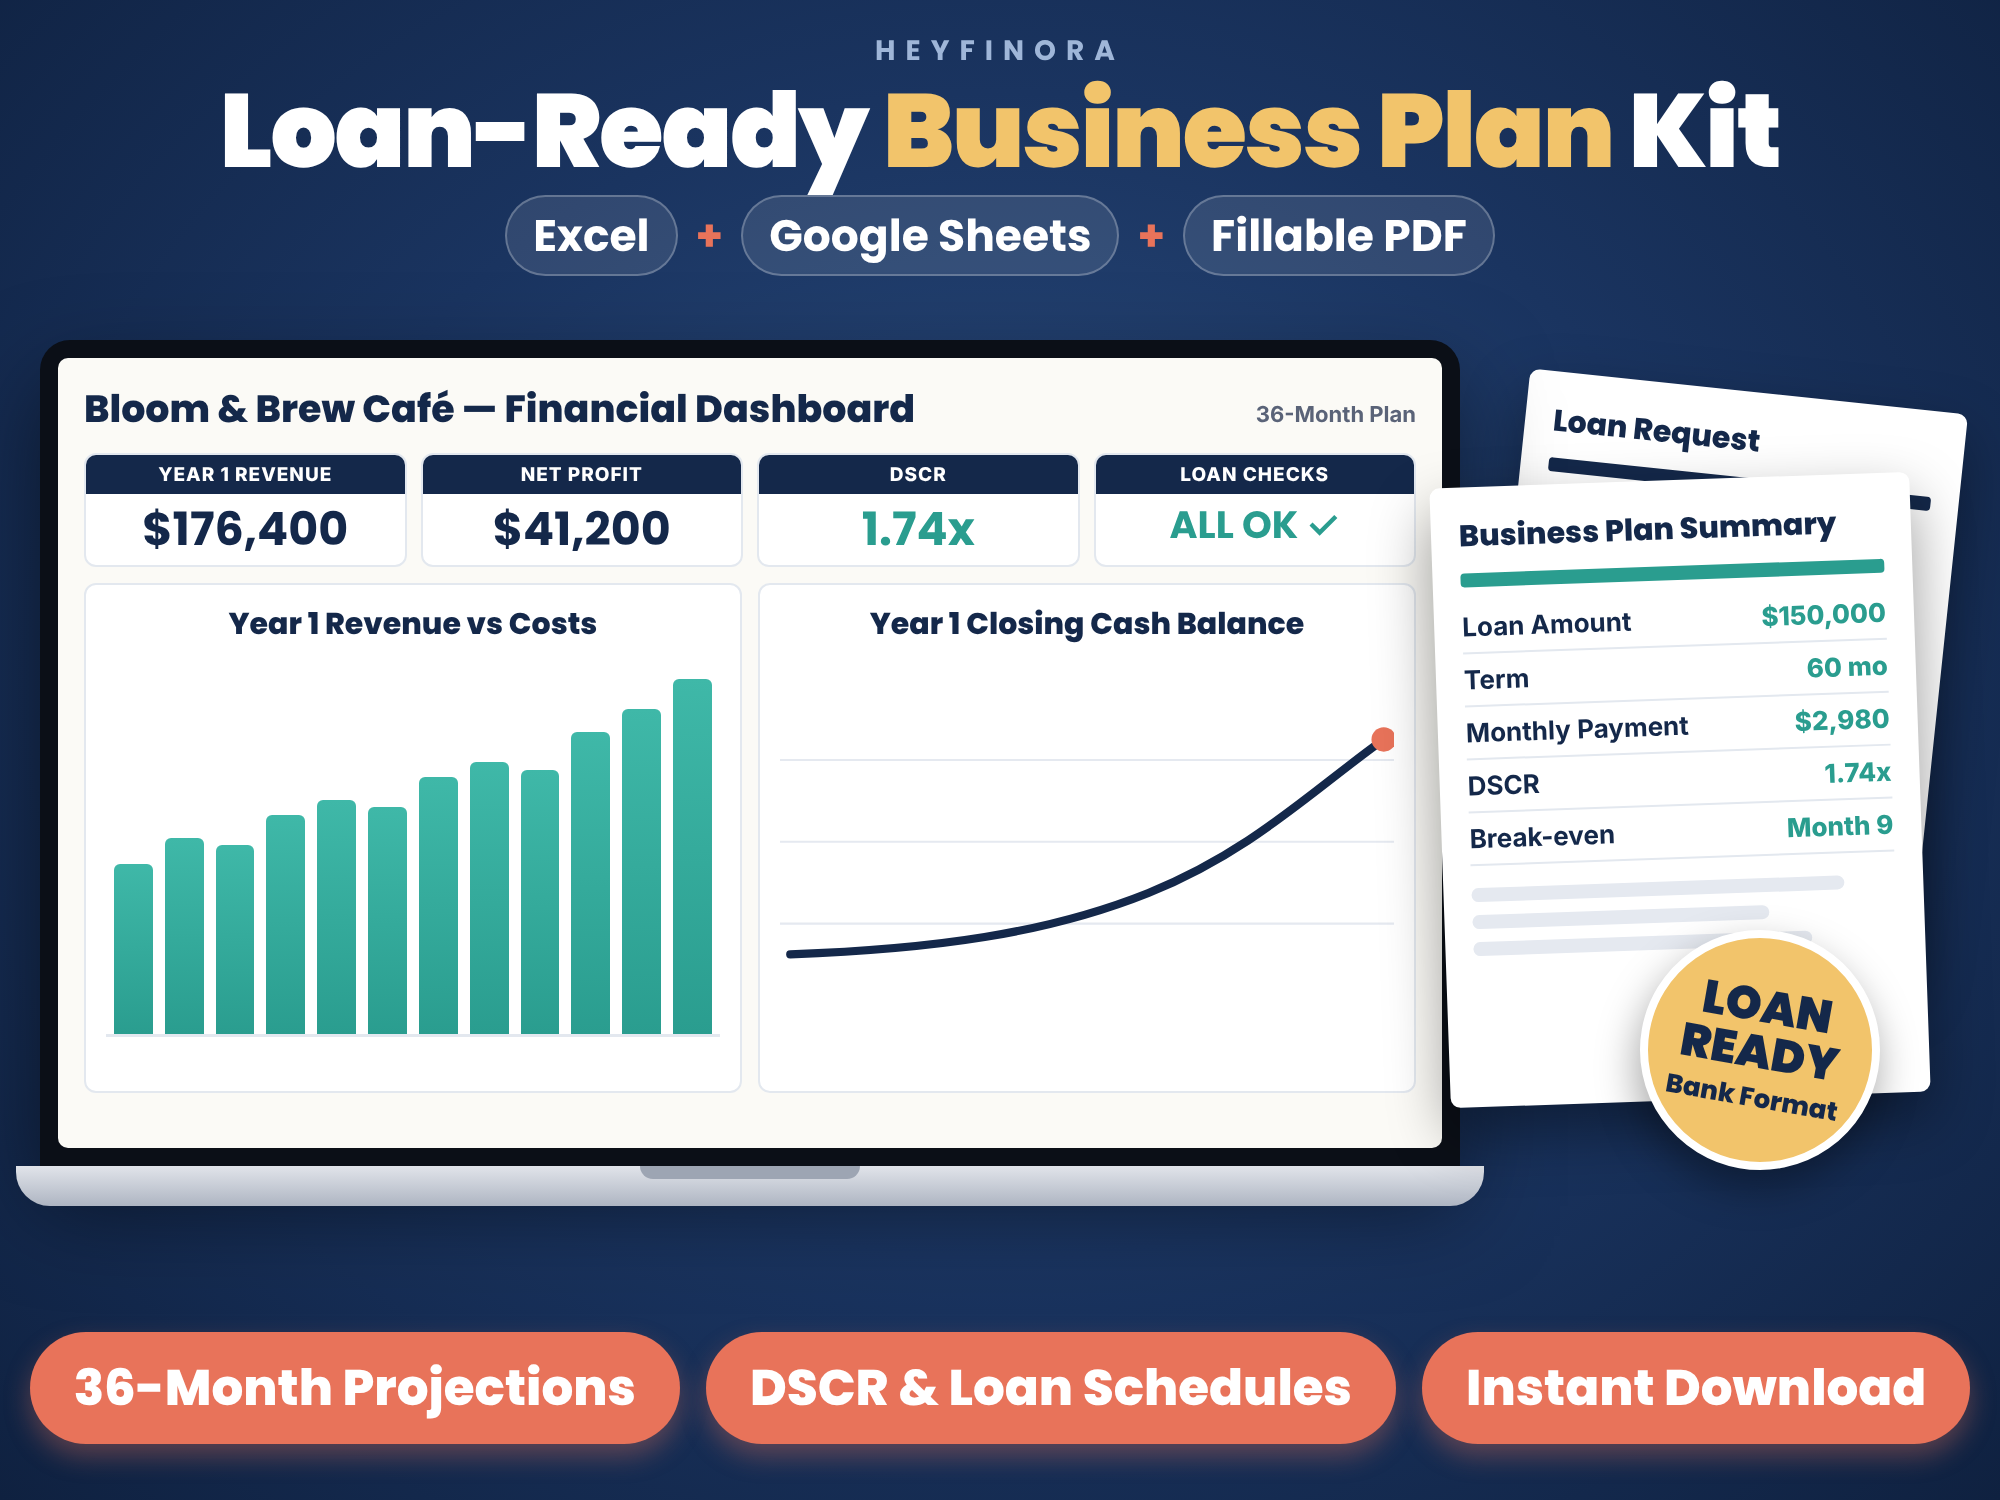
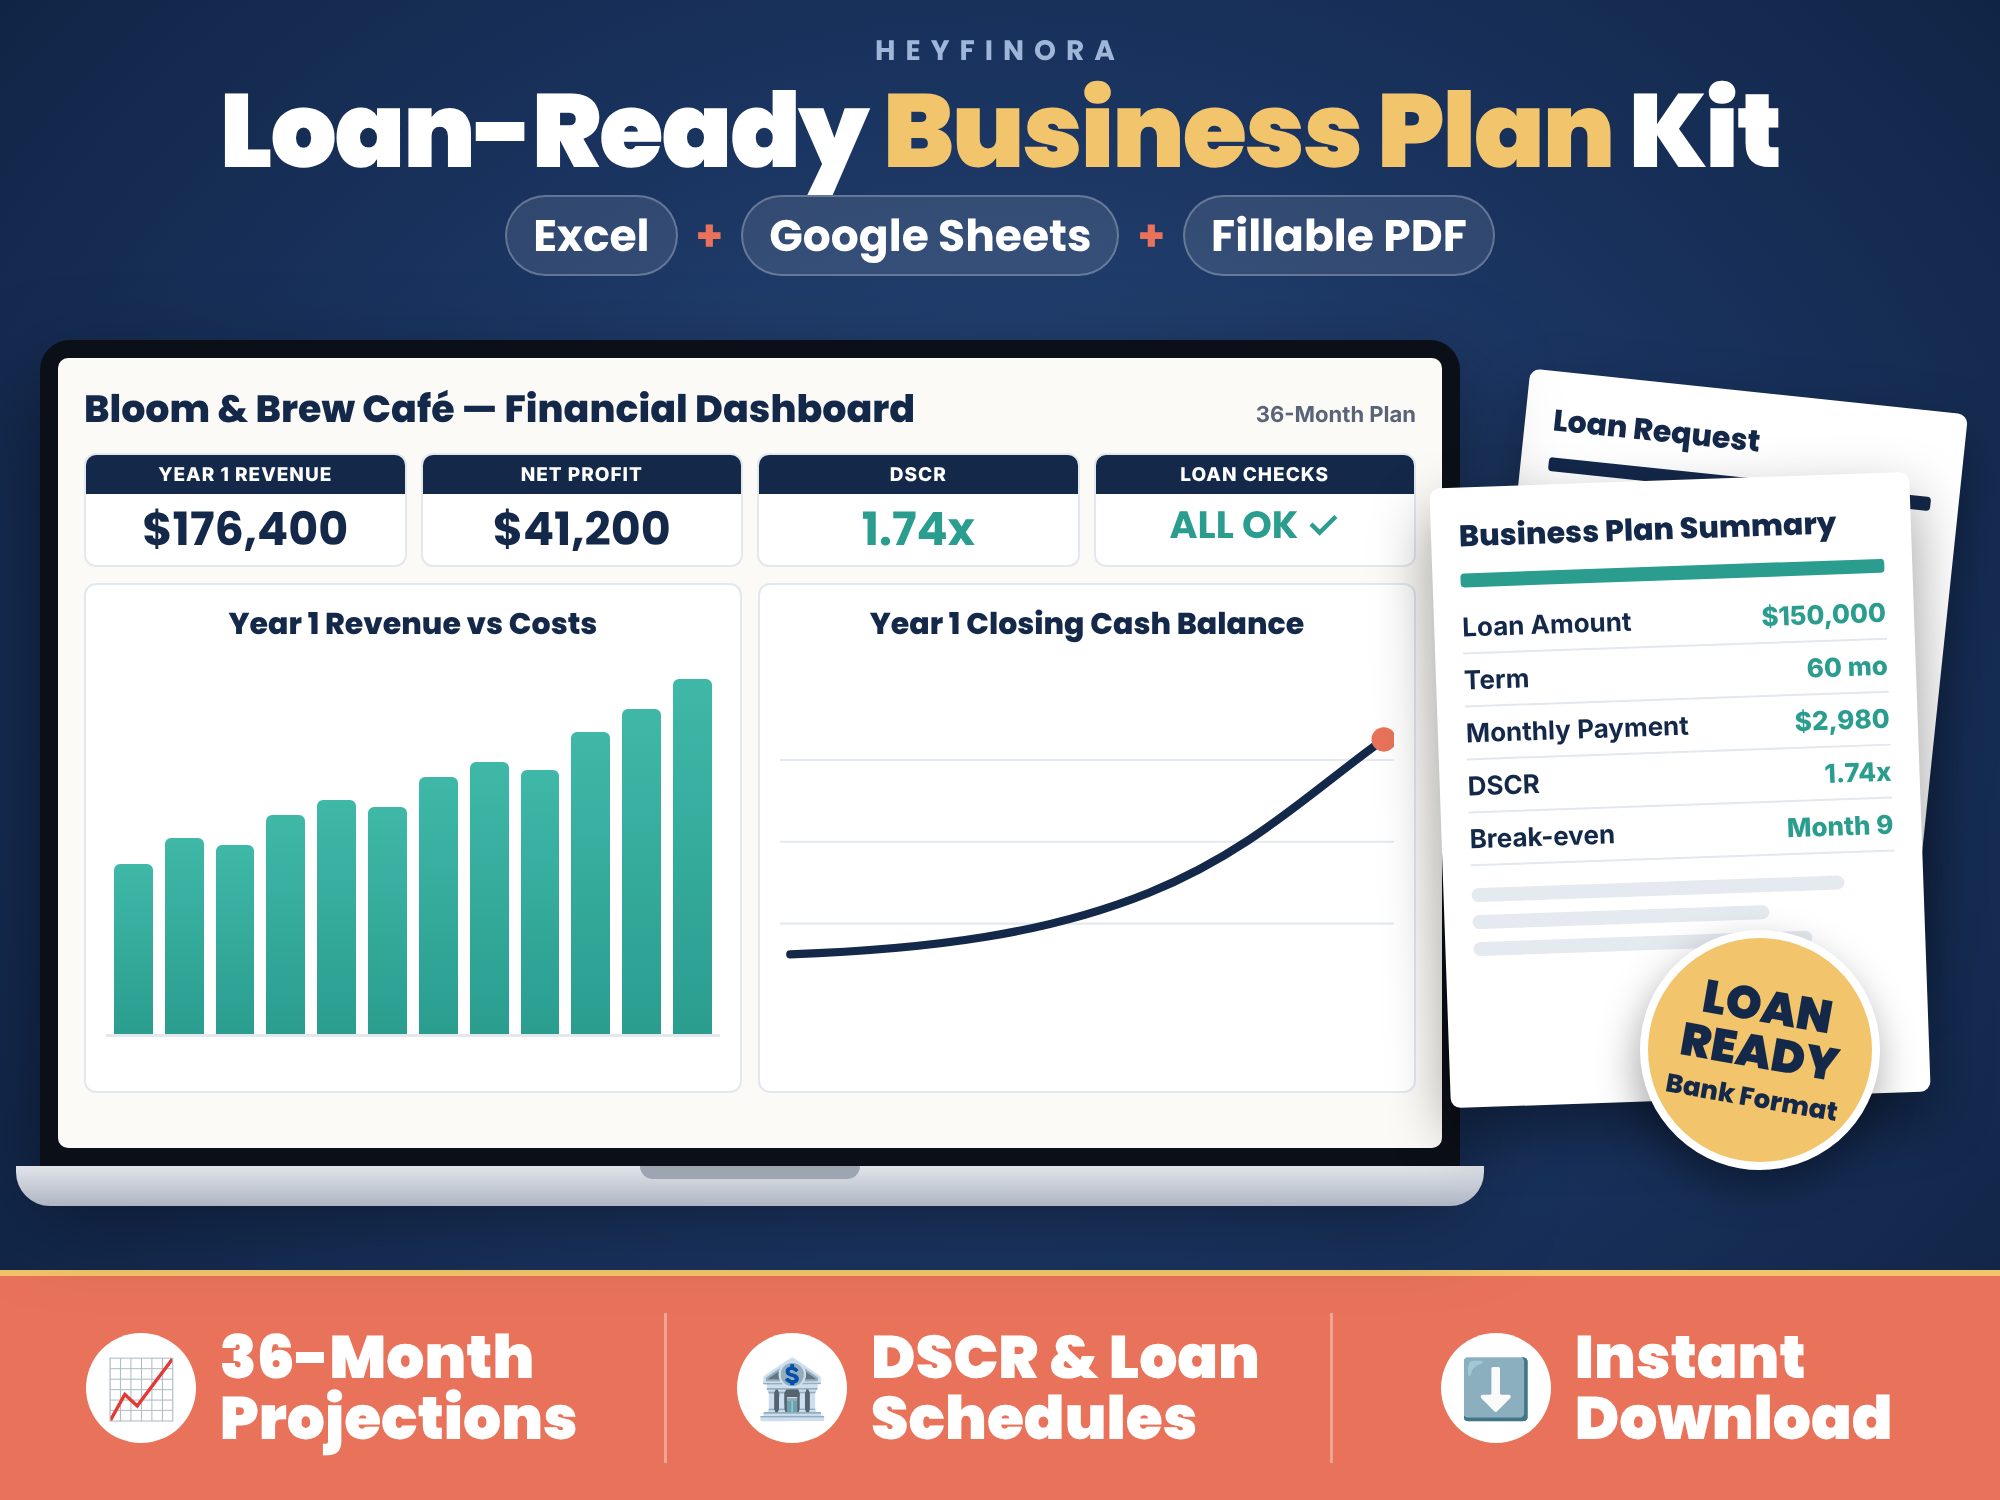
Loan Business Plan thumbnail: bigger, cleaner bottom strip
Claude-Session: https://claude.ai/code/session_01JXSyMovszCbL9FMwkaUbGU

Changed region(s): [[0.0, 0.828, 1.0, 1.0]]

diff --git a/images/src/loan-business-plan-thumbnail.html b/images/src/loan-business-plan-thumbnail.html
@@ -43,6 +43,10 @@ h1 span{color:var(--gold)}
 .pills span{background:var(--coral);color:#fff;font-family:Poppins;font-weight:800;font-size:50px;padding:18px 44px;border-radius:999px;box-shadow:0 12px 26px rgba(232,115,90,.35)}
 .seal{position:absolute;right:120px;top:930px;width:240px;height:240px;border-radius:50%;background:var(--gold);border:8px solid #fff;display:grid;place-items:center;text-align:center;color:var(--navy);font-family:Poppins;transform:rotate(10deg);box-shadow:0 18px 40px rgba(0,0,0,.35);z-index:5}
 .seal b{font-size:46px;font-weight:900;line-height:1;display:block}.seal small{font-size:26px;font-weight:800;display:block;margin-top:4px}
+.strip{position:absolute;left:0;right:0;bottom:0;height:230px;background:var(--coral);display:grid;grid-template-columns:repeat(3,1fr);align-items:center;border-top:6px solid var(--gold)}
+.strip div{display:flex;align-items:center;justify-content:center;gap:24px;height:150px;border-right:3px solid rgba(255,255,255,.35)}.strip div:last-child{border:0}
+.strip em{font-style:normal;width:110px;height:110px;border-radius:50%;background:#fff;display:grid;place-items:center;font-size:58px;flex:none}
+.strip p{font-family:Poppins;font-weight:900;font-size:60px;line-height:1.02;color:#fff}
 </style></head><body>
 <div id="thumb">
   <div class="top">
@@ -87,6 +91,6 @@ h1 span{color:var(--gold)}
 
   <div class="seal"><div><b>LOAN<br>READY</b><small>Bank Format</small></div></div>
 
-  <div class="pills"><span>36-Month Projections</span><span>DSCR &amp; Loan Schedules</span><span>Instant Download</span></div>
+  <div class="strip"><div><em>📈</em><p>36-Month<br>Projections</p></div><div><em>🏦</em><p>DSCR &amp; Loan<br>Schedules</p></div><div><em>⬇</em><p>Instant<br>Download</p></div></div>
 </div>
 </body></html>
